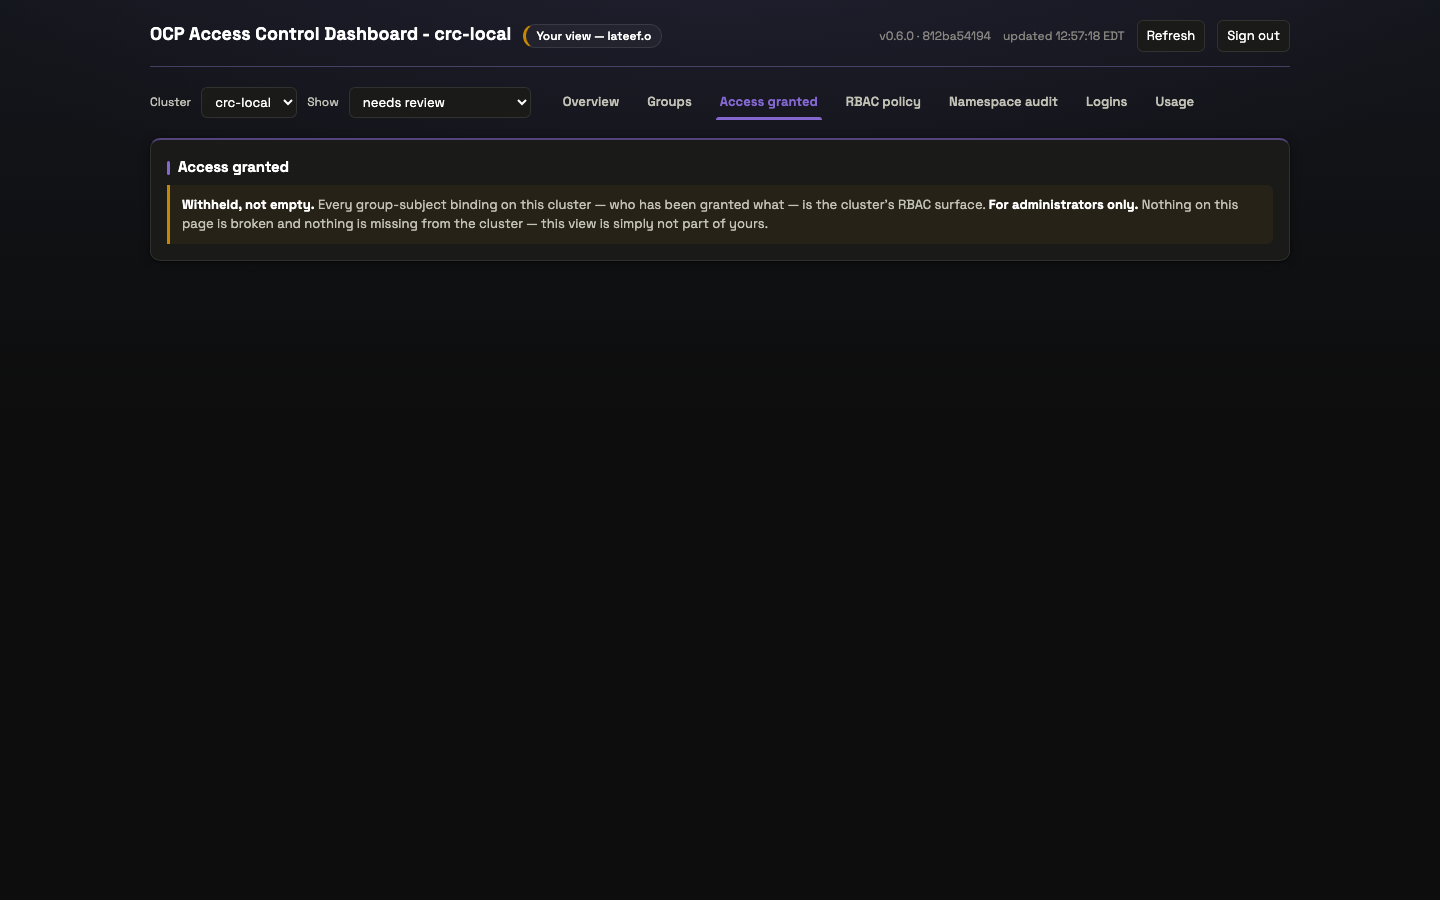
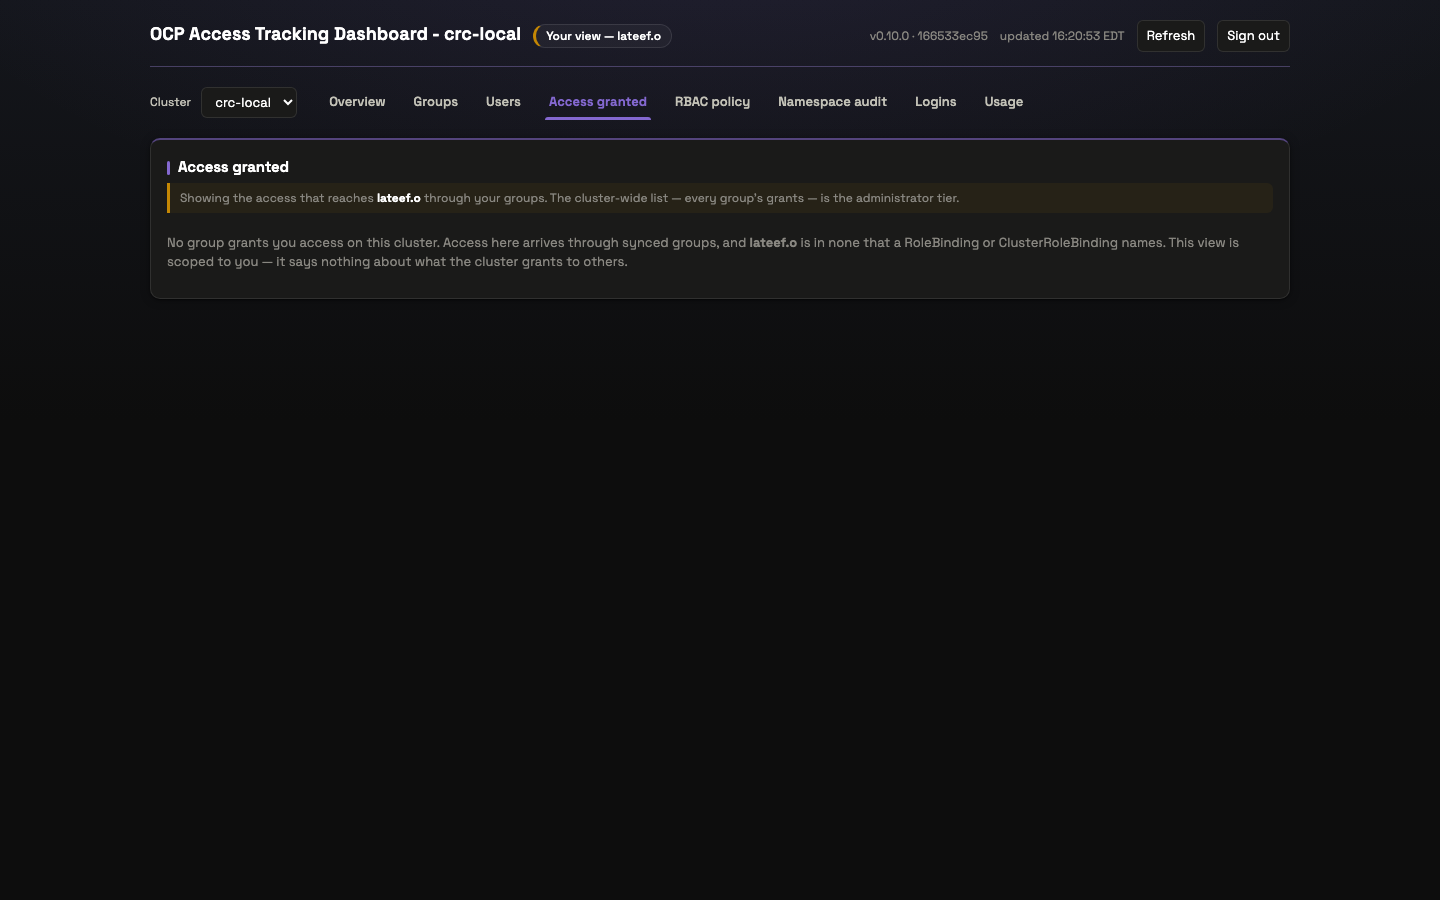
fix: the Codex review's findings on Access granted — the tier-transition race, and four smaller
The tab chose what to fetch from the previous cycle's identity and painted under the new one, so a
reader whose tier changed mid-session — an admin grant made or revoked while the tab was open — saw
the wrong view for a cycle: the wide payload under a narrowed identity, or the narrowed view after
a promotion. refresh() now decides again from the whoami that just arrived and makes one guarded
follow-up fetch either way, clearing the other tier's payload; the first-cycle fallback was one
case of this rule. Two Playwright tests change the identity header between refreshes and assert the
next paint is the new tier's.

Also: the search note counted hidden Built-in rows in its denominator and now counts only the
sections shown; the search is cleared on a cluster switch like the Users-tab chips (the sort, a
preference, stays); a narrowed identity with no username gets a named card instead of "Loading…"
forever; a non-404 failure on the reader's own path is still an error. Docs corrected where they
lagged the code: the README's "defaulting to what needs review", ACCESS_CONTROL's "no honest
per-reader subset" (true of the two refused tabs, not of this one), the admin-tier review record's
item 3 and refusal-cards paragraph now scoped to their revision, and require_admin_tier's docstring,
which listed the sync CRs among administrator-only views when list_groupsyncs serves both tiers.

Screenshots recaptured on CRC at 0.10.0: the administrator set through the ingress, and the
[…]

diff --git a/local-development/gsd/static/index.html b/local-development/gsd/static/index.html
@@ -167,6 +167,9 @@ function applyPosition(pos) {
       // empty state would blame the chip, but the reader never chose it here. Reset, like
       // memberSearch on a group change; the free-text search is a person, and persists.
       view.userFilter = "all"; view.showNeverNames = false;
+      // Same reasoning for the Access granted search: it names this cluster's groups and
+      // namespaces. The sort is a preference, not a cluster fact, and stays.
+      view.bindingSearch = "";
     }
     view.cluster = pos.cluster;
   }
@@ -549,6 +552,11 @@ function readerTierKnown() {
    tier; calling that narrowed would hide the Overview on a deployment that never restricted
    anything. Once authenticated, only an explicit scope=all may widen the layout — silence or
    junk from an authenticated response stays narrowed. */
+function narrowedFor(w) {
+  if (!w || !w.authenticated) return false;
+  const vis = w.visibility;
+  return !vis || vis.scope !== "all";
+}
 function narrowedReader() {
   const w = data.whoami;
   if (!w || !w.authenticated) return false;
@@ -2283,6 +2291,14 @@ function bindingsPage() {
   // cycle only after the findings fetch has come back forbidden and whoami has named them.
   if (narrowedReader()) {
     if (data.myAccess) return myAccessPage(data.myAccess);
+    // A narrowed identity that carries no username cannot be asked for its own path. Say so
+    // rather than spin: the reader can tell "the proxy sent no user" from "still fetching".
+    if (!(data.whoami && data.whoami.user)) {
+      return refusalCard("Access granted",
+        `Your session is narrowed to your own access, but the proxy passed no username to scope
+         it to, so there is nothing to show. Sign out and back in; if it persists, the proxy is
+         not setting X-Forwarded-User.`, true);
+    }
     return `<section class="card"><div class="empty-note">Loading…</div></section>`;
   }
   const raw = data.findings;
@@ -2293,6 +2309,11 @@ function bindingsPage() {
   const f = raw && !raw.forbidden ? Object.fromEntries(
     ["ok", "dangling", "unresolved", "built_in", "unmanaged"].map((t) =>
       [t, (raw[t] || []).filter((r) => bindingMatches(r, q))])) : null;
+  // Which tiers the selected filter paints — the search note's denominator, so it never
+  // counts a match the reader cannot see (Built-in is hidden on the default view).
+  const visible = ({ review: ["dangling", "unresolved", "unmanaged", "ok"], ok: ["ok"],
+                     built_in: ["built_in"], unmanaged: ["unmanaged"] })[view.bindingFilter]
+                  || ["dangling", "unresolved", "unmanaged", "ok", "built_in"];
   const d = raw;
   // A DESIGNED 403 (the binding surface is the administrator tier), phrased — never the
   // generic error card, and never a blank that reads as a healthy cluster.
@@ -2323,8 +2344,8 @@ function bindingsPage() {
     </div>
     ${searching ? `<div class="filterbar-note" id="binding-search-note" style="margin-top:6px">Filtered by
       <strong>${esc(q.trim())}</strong> — every word must appear in the group, role, namespace or binding
-      name. ${Object.values(f).reduce((n, rows) => n + rows.length, 0)} of
-      ${Object.values(raw).filter(Array.isArray).reduce((n, rows) => n + rows.length, 0)} loaded bindings match.
+      name. ${visible.reduce((n, t) => n + f[t].length, 0)} of
+      ${visible.reduce((n, t) => n + (raw[t] || []).length, 0)} bindings in the sections shown match.
       Clear the box, or press Escape in it, to see all of them.</div>` : ""}
   </section>`;
 
@@ -3270,15 +3291,32 @@ async function refresh(opts = {}) {
     }
     if ("findings" in got) data.findings = got.findings;
     if ("myAccess" in got) data.myAccess = got.myAccess;
-    // FIRST CYCLE on the Access granted tab: whoami arrives in the same burst as the findings
-    // request, so the tier was unknown when it was sent. A refusal plus an authenticated
-    // whoami means "narrowed" — fetch the reader's own path now, before painting, so the tab
-    // never flashes the refusal card at someone the next cycle would have served.
-    if (view.page === "bindings" && got.findings && got.findings.forbidden
-        && got.whoami && got.whoami.authenticated && got.whoami.user && !data.myAccess) {
-      const own = await myAccessFetch(get, `/api/clusters/${encodeURIComponent(view.cluster)}`, got.whoami.user);
-      if (superseded()) return;
-      data.myAccess = own;
+    // THE ACCESS GRANTED TAB DECIDES AGAIN FROM THE WHOAMI THAT JUST ARRIVED. The requests
+    // above were chosen from the previous cycle's identity — unknown on the first cycle, and
+    // stale for one cycle whenever a reader's tier changes mid-session (an admin grant made or
+    // revoked while the tab is open). Painting the old tier's payload under the new identity
+    // is exactly wrong in both directions, so: if the reader is narrowed now and their own path
+    // is missing, fetch it; if they are wide now and the findings are missing, fetch those. One
+    // guarded follow-up, then paint. (Codex review of #48 found the first-cycle-only form of
+    // this and the two transition races it missed.)
+    if (view.page === "bindings" && view.cluster) {
+      const base = `/api/clusters/${encodeURIComponent(view.cluster)}`;
+      const w = got.whoami;
+      if (narrowedFor(w)) {
+        if (!data.myAccess && w.user) {
+          const own = await myAccessFetch(get, base, w.user);
+          if (superseded()) return;
+          data.myAccess = own;
+        }
+        data.findings = null;   // the wide payload, if any, is not this reader's to paint
+      } else if (w && w.authenticated) {
+        if (!("findings" in got)) {
+          const wide = await guard403(get(`${base}/bindings/findings?limit=${FINDINGS_PAGE}`));
+          if (superseded()) return;
+          data.findings = wide;
+        }
+        data.myAccess = null;
+      }
     }
     if ("user" in got) data.user = got.user;
     if ("users" in got) data.users = got.users;

diff --git a/local-development/tests/test_ui.py b/local-development/tests/test_ui.py
@@ -881,15 +881,17 @@ class TestBindingFindingsVisible:
         """The same box the Groups and Users tabs have: group, role, namespace or binding name."""
         self._open(dash)
         before = dash.locator("tbody tr").count()
-        # The denominator is every LOADED binding, built-in included, not the painted rows.
-        loaded = dash.evaluate("() => ['ok','dangling','unresolved','built_in','unmanaged']"
-                               ".reduce((n, t) => n + (data.findings[t] || []).length, 0)")
+        # The denominator is the sections SHOWN under the current filter — Built-in is hidden on
+        # the default view, so its rows are not counted (Codex, #48).
+        shown = dash.evaluate("() => ['ok','dangling','unresolved','unmanaged']"
+                              ".reduce((n, t) => n + (data.findings[t] || []).length, 0)")
+        assert shown == before
         dash.fill("#f-binding-search", "klta")
         dash.wait_for_function("() => view.bindingSearch === 'klta'")
         names = dash.locator("tbody tr td:first-child").all_inner_texts()
         assert names == ["app-ocp-rbac-klta-ns-audit"], names
         note = dash.locator("#binding-search-note").inner_text()
-        assert "klta" in note and f"1 of {loaded} loaded bindings match" in note, note
+        assert "klta" in note and f"1 of {shown} bindings in the sections shown match" in note, note
         # The header counts the cluster, never the match.
         assert "Group bindings on this cluster" in dash.locator("#main").inner_text()
         dash.fill("#f-binding-search", "prod-ns admin")
@@ -899,6 +901,18 @@ class TestBindingFindingsVisible:
         dash.locator("#f-binding-search").press("Escape")
         dash.wait_for_function("() => view.bindingSearch === ''")
         assert dash.locator("tbody tr").count() == before
+
+    def test_a_cluster_switch_clears_the_search_and_keeps_the_sort(self, dash):
+        self._open(dash)
+        dash.fill("#f-binding-search", "klta")
+        dash.wait_for_function("() => view.bindingSearch === 'klta'")
+        dash.evaluate("() => { view.bindingSort = 'binding'; view.bindingDir = 'desc'; }")
+        dash.evaluate("() => { navigate({ cluster: 'prod-east', groupsync: null, group: null, user: null }); }")
+        assert dash.evaluate("() => view.bindingSearch") == ""
+        assert dash.evaluate("() => [view.bindingSort, view.bindingDir]") == ["binding", "desc"]
+        dash.evaluate("() => { navigate({ cluster: 'crc-local', groupsync: null, group: null, user: null });"
+                      " view.bindingSort = 'group'; view.bindingDir = 'asc'; refresh(); }")
+        dash.wait_for_selector("text=grant nobody")
 
     def test_column_headers_sort_and_reaches_puts_the_unknowns_last(self, dash):
         self._open(dash)
@@ -2886,6 +2900,45 @@ class TestAccessGrantedSelfTier:
         assert p.locator(".scope-banner").count() == 0
         assert p.locator("section.card:has(h2:has-text('Granted')) tbody tr").count() >= 1
         assert p.locator("#f-binding").count() == 1
+
+    def test_a_reader_promoted_mid_session_sees_the_cluster_on_the_next_refresh(self, page, scoped_server):
+        """The tier used to be decided from the PREVIOUS cycle's identity: a promotion showed the
+        old narrowed view for a cycle (Codex, #48). The tab now decides from the whoami that just
+        arrived and makes one guarded follow-up fetch."""
+        p = self._open(page, scoped_server, "alice")
+        p.wait_for_selector(".scope-banner")
+        p.set_extra_http_headers({"X-Forwarded-User": "root"})
+        p.evaluate("() => refresh()")
+        p.wait_for_selector("text=grant nobody", timeout=10_000)
+        assert p.locator(".scope-banner").count() == 0
+        assert p.locator("section.card:has(h2:has-text('Granted')) tbody tr").count() >= 1
+        assert p.evaluate("() => data.myAccess") is None, "the narrowed payload is not left behind"
+
+    def test_a_reader_demoted_mid_session_sees_their_own_path_on_the_next_refresh(self, page, scoped_server):
+        p = self._open(page, scoped_server, "root")
+        p.wait_for_selector("text=grant nobody")
+        p.set_extra_http_headers({"X-Forwarded-User": "alice"})
+        p.evaluate("() => refresh()")
+        p.wait_for_selector(".scope-banner", timeout=10_000)
+        body = p.locator("#main").inner_text()
+        assert "reaches alice" in body and "grant nobody" not in body, body[:300]
+        assert p.evaluate("() => data.findings") is None, "the wide payload is not this reader's to paint"
+
+    def test_a_narrowed_identity_with_no_username_is_a_named_card_not_loading(self, page, scoped_server):
+        p = self._open(page, scoped_server, "alice")
+        p.wait_for_selector(".scope-banner")
+        p.evaluate("() => { data.whoami = Object.assign({}, data.whoami, { user: null }); data.myAccess = null; render(); }")
+        body = p.locator("#main").inner_text()
+        assert "passed no username" in body and "Loading" not in body, body[:300]
+        assert p.locator(".scope-refusal").count() == 1
+
+    def test_a_non_404_failure_on_the_own_path_is_still_an_error(self, page, scoped_server):
+        p = self._open(page, scoped_server, "alice")
+        p.wait_for_selector(".scope-banner")
+        p.route("**/users/alice", lambda route: route.fulfill(status=500, content_type="application/json", body='{"detail":"boom"}'))
+        p.evaluate("() => { data.myAccess = null; refresh(); }")
+        p.wait_for_function("() => /Dashboard API error/.test(document.querySelector('#main').innerText)", timeout=10_000)
+        p.unroute("**/users/alice")
 
     def test_the_via_group_drills_to_the_readers_own_group(self, page, scoped_server):
         p = self._open(page, scoped_server, "alice")

diff --git a/local-development/gsd/api.py b/local-development/gsd/api.py
@@ -552,7 +552,8 @@ def build_app(
         """The administrator tier, or a refusal that names itself as one.
 
         For the views that are ABOUT THE CLUSTER rather than about the reader: its whole RBAC
-        binding surface, the operator's configuration, the sync CRs. These cannot be scoped
+        binding surface and the operator's configuration (the sync CRs themselves are served at
+        both tiers, projected at self — see list_groupsyncs). These cannot be scoped
         the way a membership list can — a CLUSTER-WIDE binding list names whoever it names, so
         the honest choice is the whole thing or none of it, and none of it is what a
         non-administrator gets.

diff --git a/local-development/tests/test_docs_citations.py b/local-development/tests/test_docs_citations.py
@@ -95,6 +95,7 @@ REVIEW_ARTIFACTS = (
     "REVIEW_post_merge_cursor.md",
     "REVIEW_route_exposure.md",
     "REVIEW_users_tab_logins.md",
+    "REVIEW_access_granted_reach.md",
     # The log-level contract review. Same reason, plus a worked example of why the exemption is
     # right: it cites `README.md#Configuration`, a heading that does not exist — and the finding
     # attached to that citation was correct and was applied. Rewriting the citation would not make

diff --git a/docs/REVIEW_access_granted_reach.md b/docs/REVIEW_access_granted_reach.md
@@ -1,0 +1,50 @@
+# Access granted: reach, filter, sort and the reader's own grants (PR #48, app 0.10.0) — review record
+
+**Target:** `feat/access-granted-default` at the implementation commit ("feat: Access granted says
+who each grant reaches, filters and sorts, and shows a reader their own"). Both reviewers received the
+same eleven-claim brief naming the exact file, symbol and expected behaviour per claim. Every verdict
+was re-checked against the code, a render, or a live query before being accepted; the disposition
+column is the arbiter's.
+
+**Baseline measured before the pass:** full suite `1683 passed` (Playwright included); live on CRC at
+that commit, all 38 granted and unmanaged findings rows matched member and logged-in counts computed
+independently from `oc get groups` and `oc get users`, and every other tier's row carried null.
+
+## Codex
+
+Ran read-only with a shell, but its sandbox had no writable temp directory, so pytest could not run;
+verdicts rest on reading code and probing with in-memory SQLite where it could.
+
+| Claim | Verdict | Re-check | Disposition |
+|---|---|---|---|
+| C1 `_REACH_JOIN` cannot multiply; NULL exactly when no Group; `reach=False` unchanged | CONFIRMED | `tests/test_binding_reach.py` runs the probe it could not | accepted |
+| C2 hot callers pay nothing; `_binding_counts` scalar with defaults | CONFIRMED | — | accepted |
+| C3 counts describe the cluster; fields in every tier; `@consistent`; 403 byte-identical | CONFIRMED | — | accepted |
+| C4 default sections and their order; header from `counts`; "all" includes Built-in | CONFIRMED | — | accepted |
+| C5 search | CONFIRMED, two UX defects: the note's denominator counted hidden Built-in rows; the search survived a cluster switch | both true | **fixed**: denominator is the sections shown; cleared on a cluster switch, sort kept |
+| C6 sort | CONFIRMED | — | accepted; the sort state is shared with RBAC policy by design (one table helper, one preference) |
+| C7 self tier in `refresh()` | **REFUTED**: requests were chosen from the previous cycle's identity and painted under the new one — an admin demoted mid-session got the wide payload for a cycle, a reader promoted got the narrowed one | true by construction | **fixed**: after the burst the tab decides again from the whoami that just arrived and makes one guarded follow-up fetch either way, clearing the other tier's payload; two Playwright tests drive the transitions by changing the identity header between refreshes |
+| C8 `myAccessPage`, banner, drill, hidden controls | CONFIRMED | — | accepted |
+| C9 renderer robustness | CONFIRMED, one gap: a narrowed identity with no username spun on "Loading…" | true | **fixed**: a named card; test |
+| C10 tests pin C1–C9 | REFUTED, list of gaps | accurate | **fixed** for the transitions, the no-username case, a non-404 failure on the own path, the denominator and the cluster switch; the rest recorded below |
+| C11 docs vs code | REFUTED: README "defaulting to what needs review"; ACCESS_CONTROL's "no honest per-reader subset" now contradicted by the tab; the admin-tier review record's item 3 and refusal-cards paragraph unscoped; `require_admin_tier` listed the sync CRs, which are served at both tiers | all true | **fixed**, every sentence |
+
+## Cursor
+
+The `cursor agent` run lost its connection to the service repeatedly and had produced no verdicts
+when this record was written; see the addendum below if it completed.
+
+## Declined or deferred
+
+- **Pinning the generated SQL text for `reach=False`** (Codex C10): the store test pins the returned
+  keys, and the `_FINDING_FROM` concatenation is what the count query reads — a text assertion would
+  break on any reformatting. Declined.
+- **A whoami failure while findings is refused** (C10): `narrowedFor(null)` is false, so the refusal
+  card renders — the pre-existing behaviour, unchanged; not separately tested.
+
+## What changed because of the review
+
+The tier-transition race is the finding that mattered: it was invisible to the steady-state tests
+and to the live check, which only ever loaded the tab under one identity. Both directions now have a
+Playwright test that changes the identity header between two refreshes and asserts the tab paints
+the new tier's view on the very next cycle, with the other tier's payload cleared.

diff --git a/docs/REVIEW_admin_tier_gating.md b/docs/REVIEW_admin_tier_gating.md
@@ -120,7 +120,9 @@ UI (`local-development/gsd/static/index.html`):
 - `operator-configs` fetch wrapped in the existing `guard403`, so the designed 403 does not replace
   the tab with "Dashboard API error: 403 Forbidden".
 - The **already-existing** refusal cards for "Access granted" and "RBAC policy" now fire, because
-  something finally refuses. All three carry `<strong>For administrators only.</strong>`.
+  something finally refuses. All three carry `<strong>For administrators only.</strong>`. *(As of
+  that revision. Since 0.10.0 the Access granted card fires only when the tier cannot be
+  established; a known narrowed reader is shown their own grants instead — §6 item 3.)*
 
 Tests:
 
@@ -139,8 +141,8 @@ Tests:
 2. **`list_groupsyncs`'s docstring** still says "FULL VIEW AT BOTH TIERS, by ruling (spec Q3)" —
    still true for that endpoint, but the Q3 cross-reference now points at a partially reversed
    ruling and should say why *this* endpoint is the surviving half.
-3. **Access granted is only refused via `findings`.** The tab's sole fetch is
-   `bindings/findings`, so gating that endpoint gates the tab. Confirm there is no second path in.
+3. **Access granted is only refused via `findings`** *(as of the revision reviewed; superseded,
+   see below)*. The tab's sole fetch was `bindings/findings`, so gating that endpoint gated the tab.
    *Held until 2026-09-03.* The tab now has a second fetch at the narrowed tier — the reader's own
    `/users/{name}`, which serves their own bindings with `via_group` and refuses anyone else's name
    before any lookup — and renders their own grants where the refusal card was. The endpoint gate

diff --git a/README.md b/README.md
@@ -348,7 +348,9 @@ the person finds the id the cluster knows them by. A non-administrator sees thei
 **Access granted** — every group-subject binding, classified `ok`, `dangling` (the group was
 operator-managed and has disappeared), `unresolved` (names a group that has never existed),
 `built_in` (Kubernetes virtual groups, expected), or `unmanaged` (a hand-made grant on a
-synced group, outside the policy system). Filterable, defaulting to what needs review.
+synced group, outside the policy system). Opens on what was granted with the faults on top;
+each granted row says who it reaches — the group's members, and how many have logged in — and the
+list filters as you type and sorts by column. Built-in bindings are one filter away.
 
 **RBAC policy** — the namespace-configuration-operator's `NamespaceConfig` and `GroupConfig`
 CRs beside the provenance of the bindings they template. These CRs are the other half of the

diff --git a/docs/ACCESS_CONTROL.md b/docs/ACCESS_CONTROL.md
@@ -107,8 +107,9 @@ since 0.10.0 the tab shows it (from their own `/users/{name}`), while the cluste
 `bindings/findings` stays the administrator tier and still answers a plain reader with the refusal.
 
 Two tabs are **refused** rather than narrowed, because their content is about the cluster rather
-than about any reader — a binding names whoever it names, so there is no honest per-reader subset
-of it.
+than about any reader: the Overview is the cluster's own health, and RBAC policy is the whole
+binding surface against the policy operator — the cluster-wide list, which has no honest per-reader
+subset. (Access granted has one: a reader's own path, above.)
 
 ---
 
